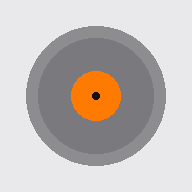
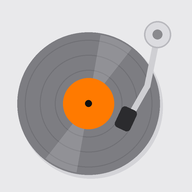
Add files via upload

diff --git a/sw.js b/sw.js
@@ -1,4 +1,4 @@
-const V='quran-v1',SHELL=['./','index.html','manifest.webmanifest','icon-192.png','icon-512.png'];
+const V='quran-v2',SHELL=['./','index.html','manifest.webmanifest','icon-192.png','icon-512.png','icon-maskable.png'];
 const API=['mp3quran.net/api','api.alquran.cloud','fonts.googleapis.com','fonts.gstatic.com'];
 self.addEventListener('install',e=>{e.waitUntil(caches.open(V).then(c=>c.addAll(SHELL)).then(()=>self.skipWaiting()))});
 self.addEventListener('activate',e=>{e.waitUntil(caches.keys().then(k=>Promise.all(k.filter(x=>x!==V).map(x=>caches.delete(x)))).then(()=>self.clients.claim()))});
